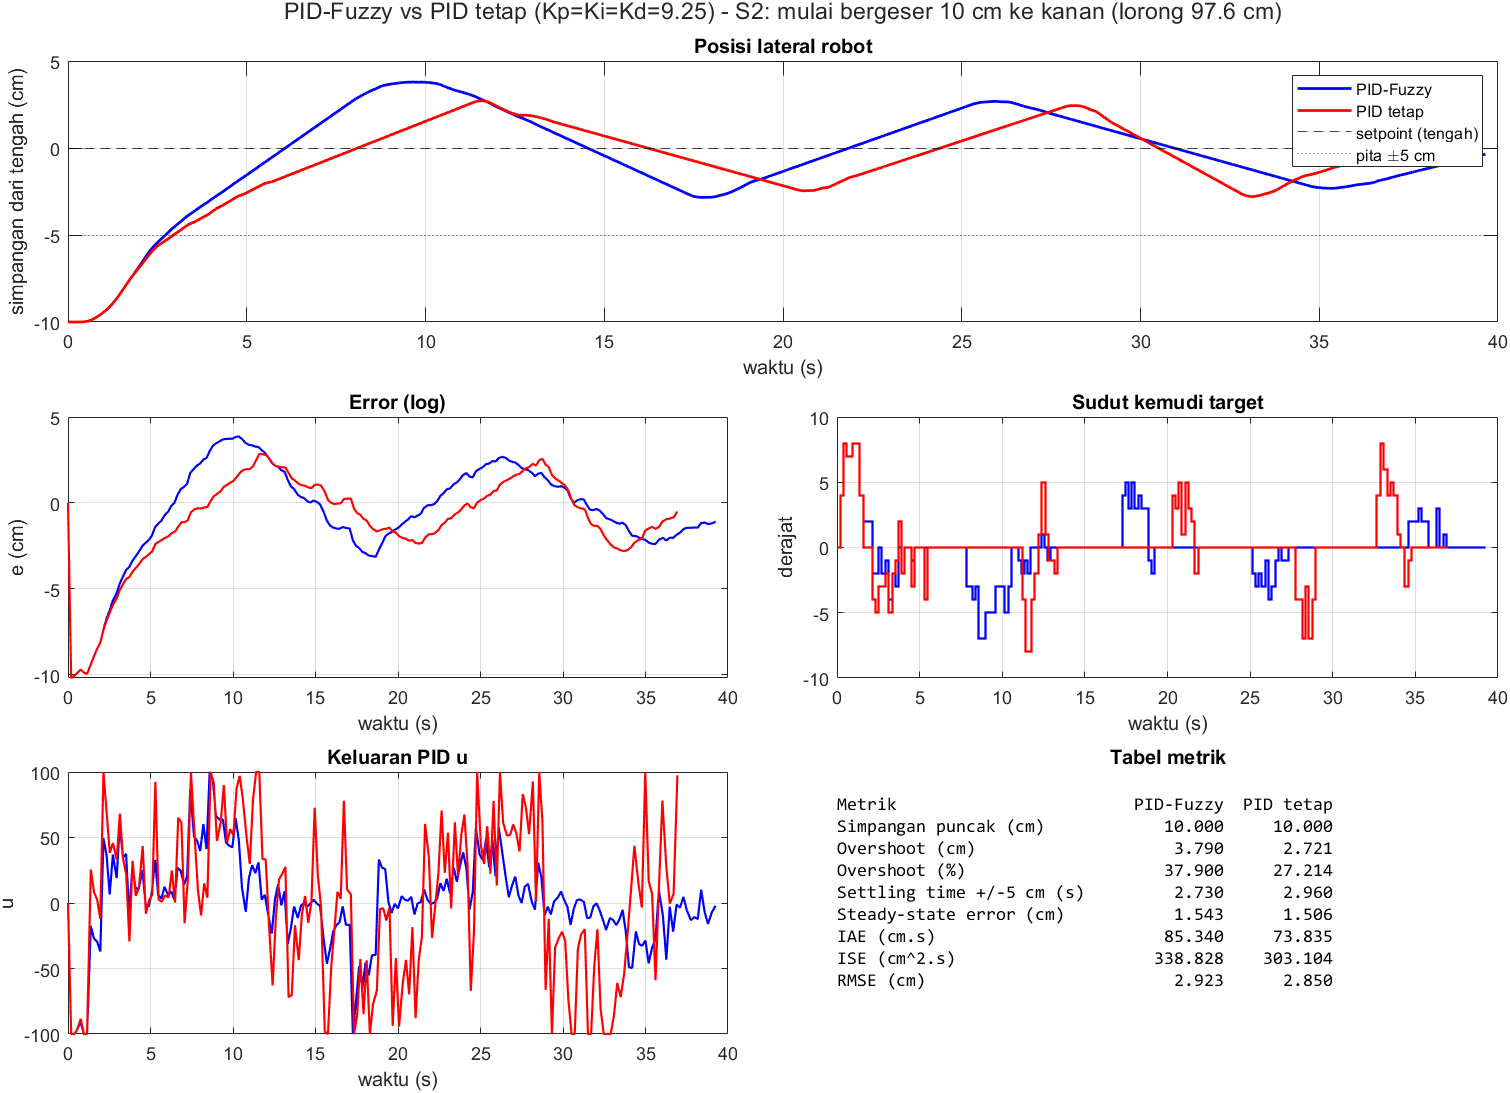
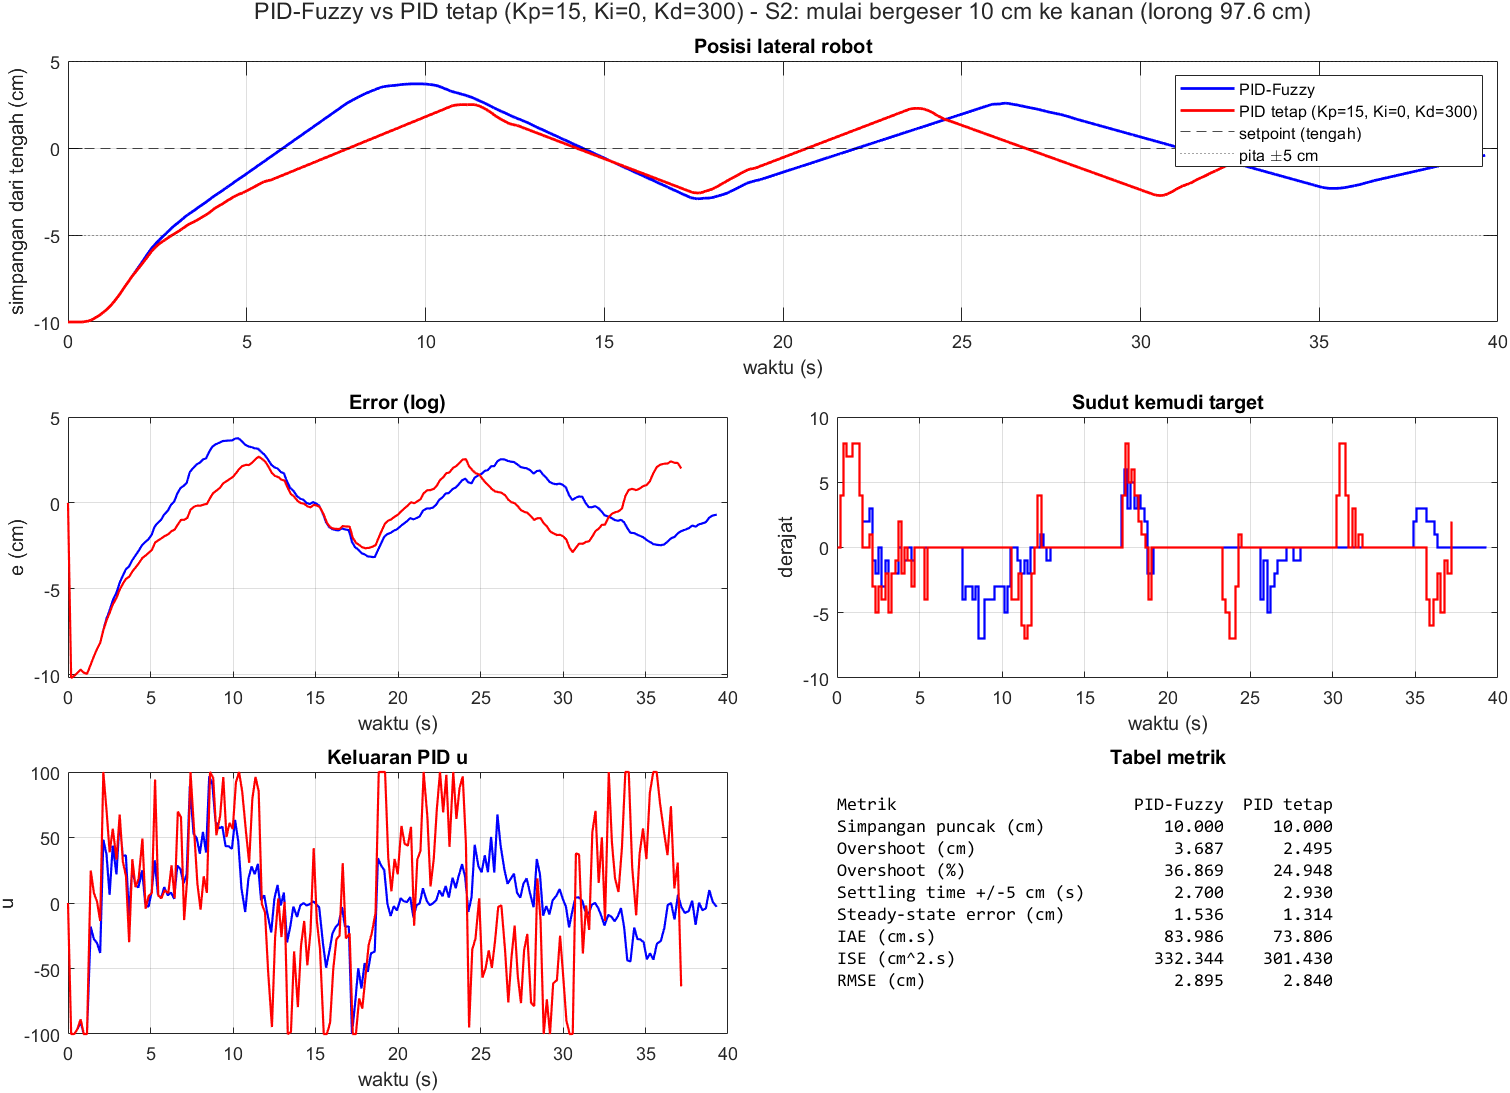
Grafik detail perbandingan: label gain PID tetap yang benar

diff --git a/simulasi_matlab/plot_perbandingan.m b/simulasi_matlab/plot_perbandingan.m
@@ -9,11 +9,12 @@ tab = table(nm', round(vF, 3), round(vP, 3), 'VariableNames', {'Metrik', 'PID_Fu
 
 f = figure('Name', 'Perbandingan', 'Color', 'w', 'Position', [40 40 1200 820]);
 tl = tiledlayout(f, 3, 2, 'TileSpacing', 'compact', 'Padding', 'compact');
-title(tl, sprintf('PID-Fuzzy vs PID tetap (Kp=Ki=Kd=%.2f) - %s', HF.cfg.k.kpTetap, strrep(HF.world.judul, '_', ' ')));
+nmP = sprintf('PID tetap (Kp=%g, Ki=%g, Kd=%g)', HP.cfg.k.kpTetap, HP.cfg.k.kiTetap, HP.cfg.k.kdTetap);
+title(tl, sprintf('%s vs %s - %s', HF.metode, nmP, strrep(HF.world.judul, '_', ' ')));
 [tF, yF] = lateral(HF); [tP, yP] = lateral(HP);
 nexttile([1 2]); plot(tF, yF, 'b', tP, yP, 'r', 'LineWidth', 1.5); hold on;
 yline(0, 'k--'); yline([-5 5], 'k:'); grid on; ylabel('simpangan dari tengah (cm)'); xlabel('waktu (s)');
-legend('PID-Fuzzy', 'PID tetap', 'setpoint (tengah)', 'pita \pm5 cm'); title('Posisi lateral robot');
+legend(HF.metode, nmP, 'setpoint (tengah)', 'pita \pm5 cm'); title('Posisi lateral robot');
 LF = HF.log; LP = HP.log; t1 = (LF.ms - LF.ms(1))/1000; t2 = (LP.ms - LP.ms(1))/1000;
 nexttile; plot(t1, LF.e, 'b', t2, LP.e, 'r', 'LineWidth', 1.2); grid on; ylabel('e (cm)'); xlabel('waktu (s)'); title('Error (log)');
 nexttile; stairs(t1, LF.sudut, 'b', 'LineWidth', 1.2); hold on; stairs(t2, LP.sudut, 'r', 'LineWidth', 1.2);
